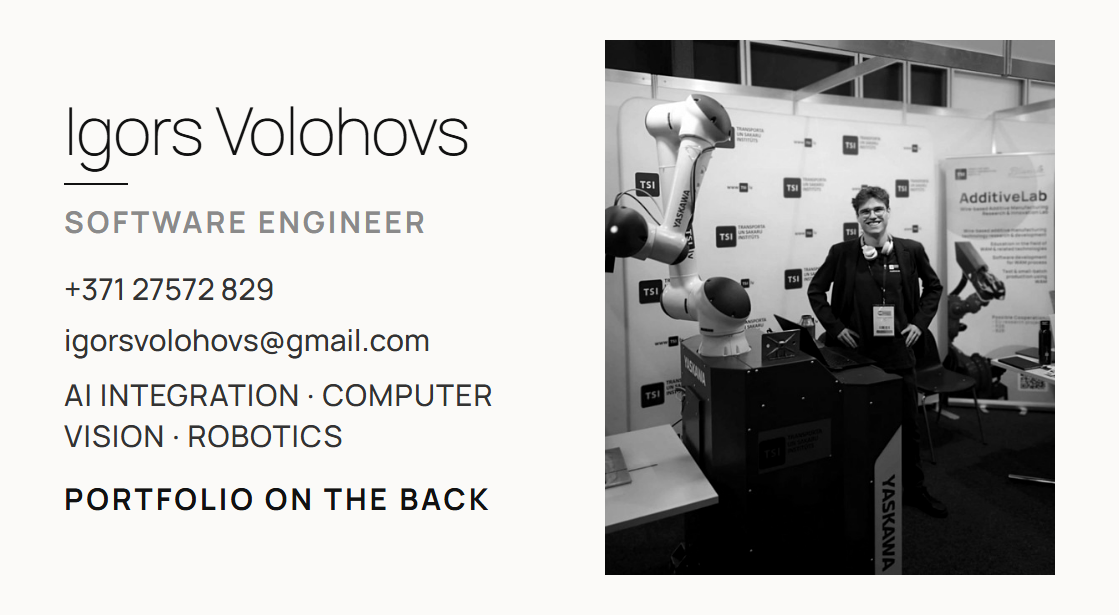
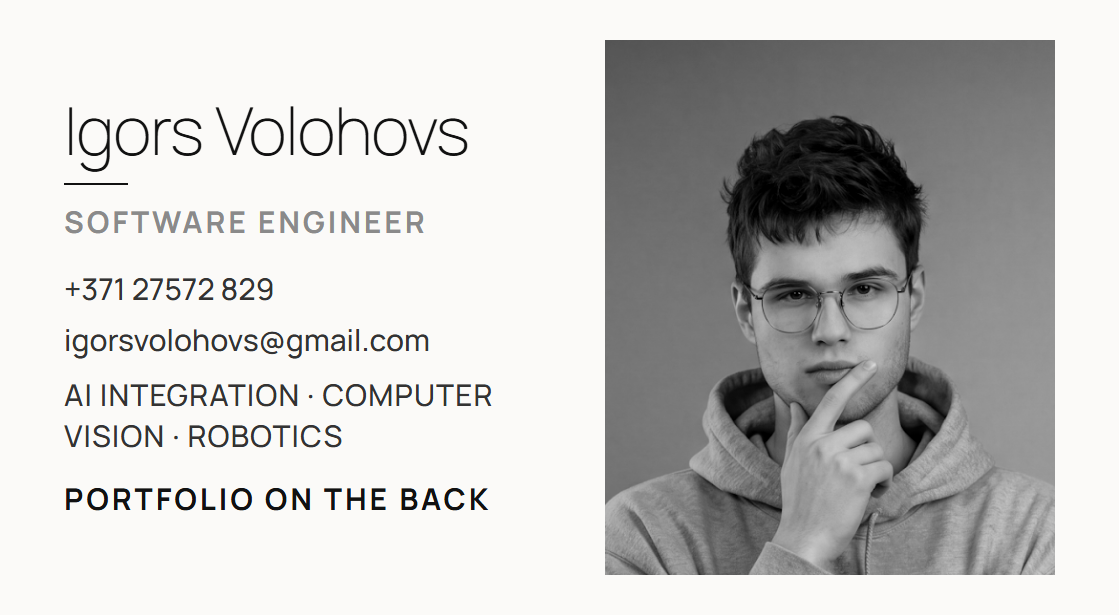
Replace photo with Igor's new portrait, face-centered on all 11 fronts
Igor sent a new studio portrait to use everywhere. It's a landscape
1355x911 shot with the face well above center (~31% down, ~50% across),
so a naive drop-in replacement would have miscentered on most crop
shapes - and per-template object-position tuning couldn't have fully
fixed it either: for any square/circular box, object-fit: cover on a
landscape source scales to fit the box height exactly and only crops
left/right, leaving no vertical crop range to shift into. The face would
land at the same ~31%-from-top spot in every square/circle variant
regardless of what object-position said.

Fixed at the source instead: measured the face center precisely (pixel
680,285 in the original - ears at x=575/785, hairline y=190, chin y=370)
and pre-cropped a 560x560 square centered exactly on that point, saved as
the new experiments/assets/photo.png. With the face at the exact
geometric center of a square source, default object-fit: cover centering
keeps it centered in every crop shape used across the 11 variants -
square, circular, or Minimal's tall 450x535 rectangle - with zero
per-template CSS changes needed. 560px also clears the largest photo box
in the set (460px circle in QR Centerpiece) without upscaling.

Old photo kept as experiments/assets/photo_old.png for rollback. Only the
11 front.png files changed - back.png (all QR-only, no photo) is
byte-identical, and neither ../generator/ nor the root front.png/back.png
were touched.

diff --git a/experiments/README.md b/experiments/README.md
@@ -44,6 +44,28 @@ bigger CSS number. Every crop stays at or below the source photo's native
 640x640 resolution, so nothing is upscaled past what the source can
 support.
 
+Igor later sent a new studio portrait to replace that photo everywhere
+(the old one is kept as `experiments/assets/photo_old.png` in case it's
+ever needed again). The new source is a landscape-oriented 1355x911 shot
+with the face sitting well above its vertical center (roughly 31% down,
+50% across) - so a plain `object-position: center` on the original file
+would have centered each crop on empty background/hoodie rather than the
+face, and per-template `object-position` percentages couldn't fully fix
+it either: for any square or circular crop box, `object-fit: cover` on a
+*landscape* source scales to match the box's height exactly and only
+crops left/right, leaving zero vertical crop range to shift into - the
+face would sit at the same ~31%-from-top position in every square/circle
+variant no matter what `object-position` said. The actual fix was to
+pre-crop the source photo itself into a 560x560 square centered exactly
+on the face (measured at pixel (680, 285) in the original - ears at
+x=575/785, hairline at y=190, chin at y=370), and save *that* as the new
+`photo.png`. With the face already at the exact geometric center of a
+square source, `object-fit: cover` at the default center position keeps
+it centered in every crop shape used across all 11 variants - square,
+circular, or Minimal's tall 450x535 rectangle - with no per-template CSS
+changes needed at all. 560px also comfortably covers the largest photo
+box in the set (460px, QR Centerpiece's circle) without upscaling.
+
 Every QR code encodes `https://igorsvolohovs.github.io/` and was verified
 to decode correctly (OpenCV `QRCodeDetector`). A few early color choices
 (green-on-dark, white-on-dark) looked thematically nice but failed to
